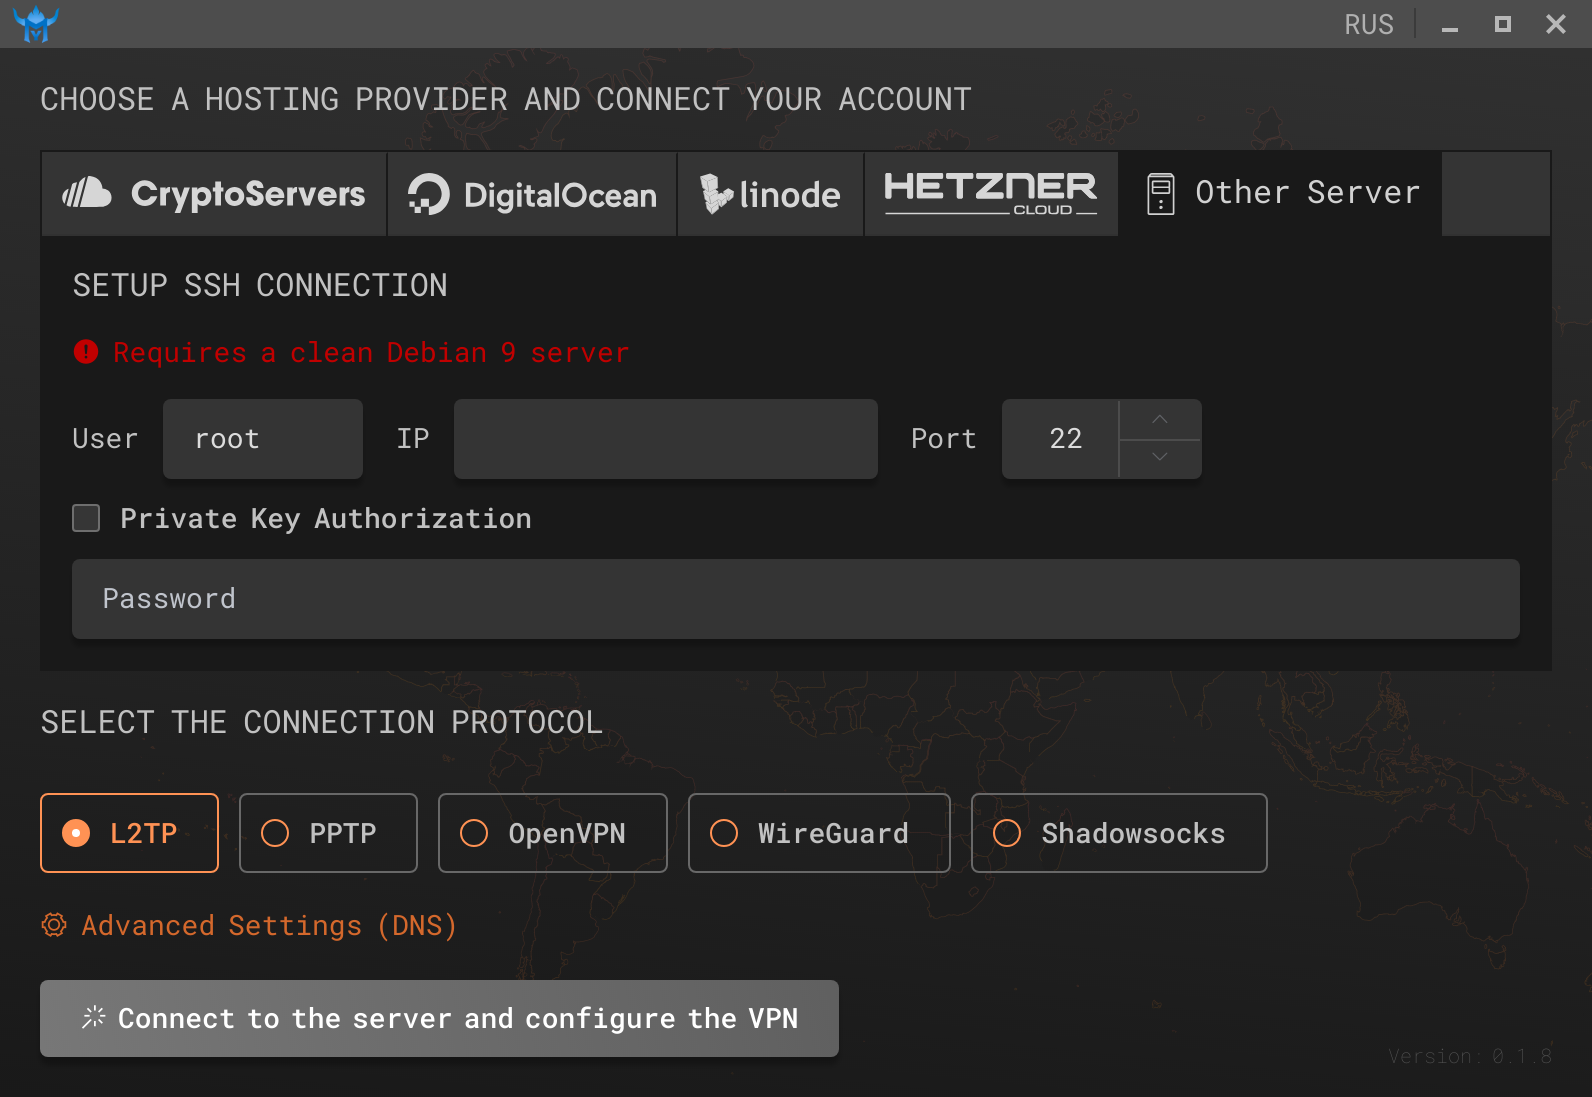
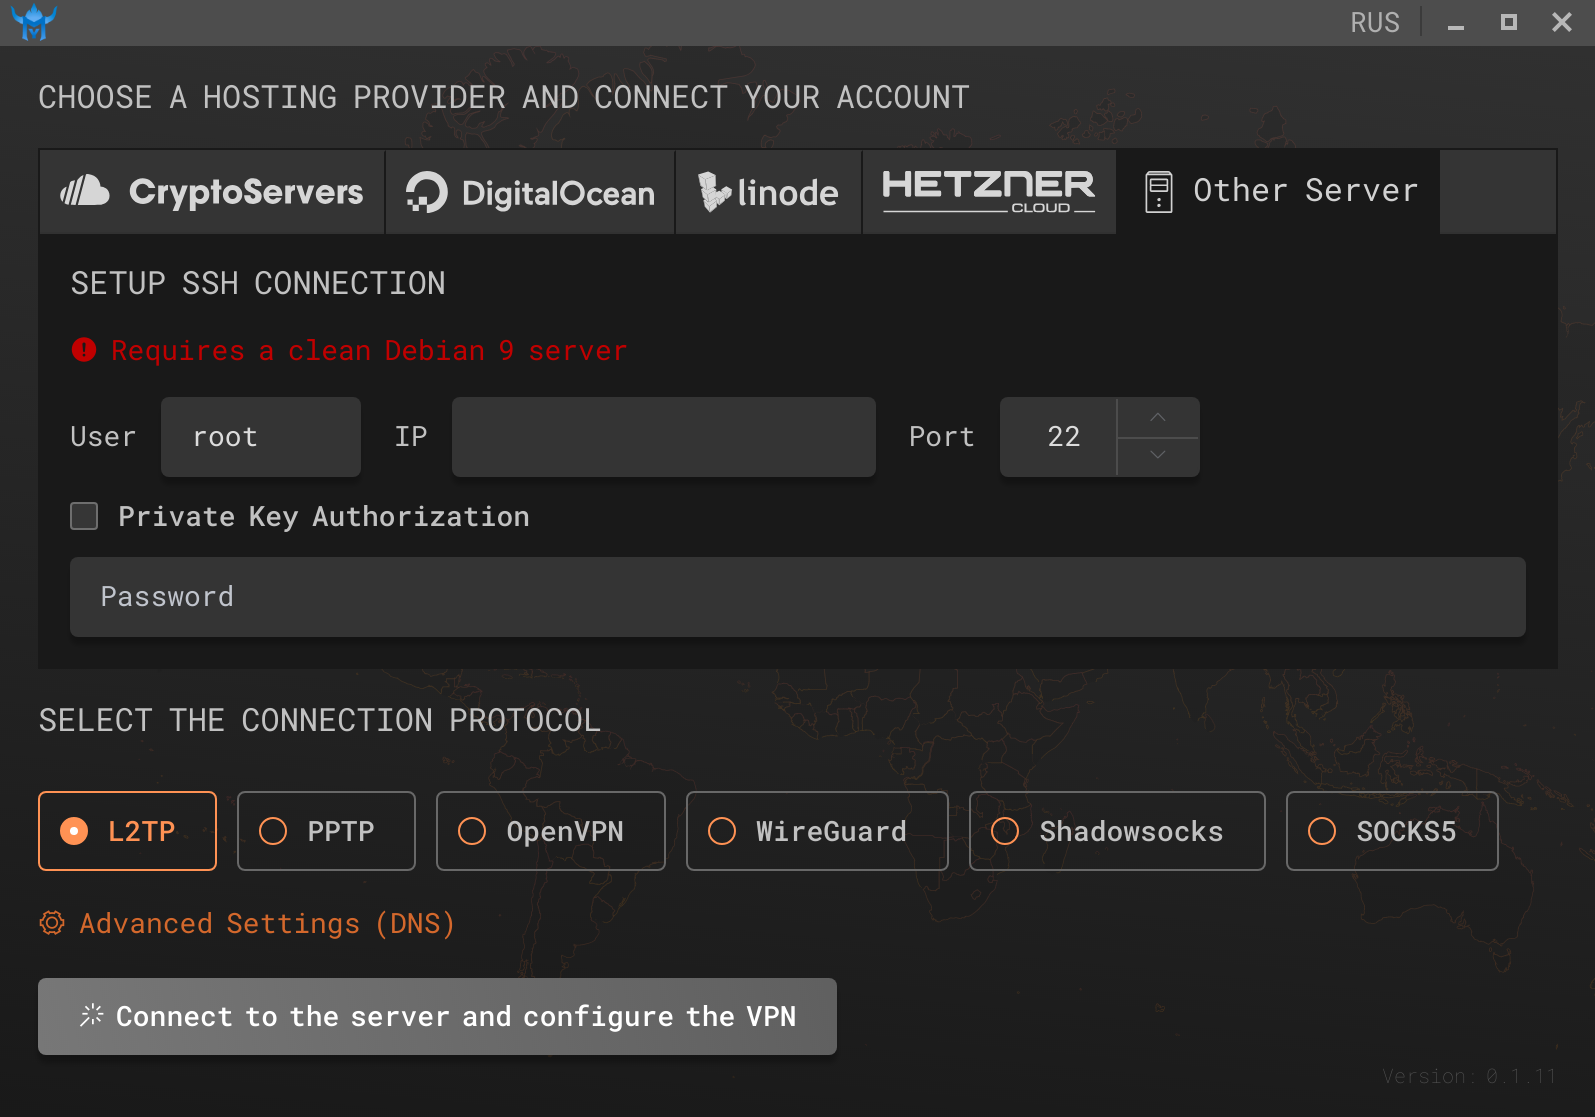
added socks5 type

diff --git a/src/renderer/components/StepAccess.vue b/src/renderer/components/StepAccess.vue
@@ -26,9 +26,9 @@
                         <h2>{{ $t('PSK key') }}</h2>
                         <h3><Copied :text="accountPskKey" /></h3>
                     </div>
-                    <div v-if="connectionType === 'pptp'">
+                    <div v-if="connectionType === 'l2tp'">
                         <h2>{{ $t('Type of connection') }}</h2>
-                        <h3>PPTP</h3>
+                        <h3>L2TP</h3>
 
                         <h2>{{ $t('IP address') }}</h2>
                         <h3><Copied :text="serverIp" /></h3>
@@ -38,7 +38,23 @@
 
                         <h2>{{ $t('Password') }}</h2>
                         <h3><Copied :text="accountPassword" /></h3>
-                        <u class="text-warning">{{ $t('Be sure to enable MPPE encryption') }}</u>
+                    </div>
+                    <div v-if="connectionType === 'socks5'">
+                        <h2>{{ $t('Type of connection') }}</h2>
+                        <h3>SOCKS5</h3>
+
+                        <h2>{{ $t('IP address') }}</h2>
+                        <h3><Copied :text="serverIp" /></h3>
+
+                        <h2>{{ $t('Login') }}</h2>
+                        <h3><Copied :text="accountUsername" /></h3>
+
+                        <h2>{{ $t('Password') }}</h2>
+                        <h3><Copied :text="accountPassword" /></h3>
+
+                        <h2>{{ $t('Port') }}</h2>
+                        <h3><Copied text="1080" /></h3>
+
                     </div>
                     <div v-if="connectionType === 'openvpn'">
                         <h2>{{ $t('Type of connection') }}</h2>

diff --git a/src/renderer/store/modules/type.js b/src/renderer/store/modules/type.js
@@ -3,12 +3,14 @@ const TYPE_L2TP='l2tp',
       TYPE_OPENVPN='openvpn',
       TYPE_WIREGUARD='wireguard',
       TYPE_SHADOWSOCKS='shadowsocks',
+      TYPE_SOCKS5='socks5',
       CODES = [
         {code: 1, type: TYPE_L2TP},
         {code: 2, type: TYPE_PPTP},
         {code: 3, type: TYPE_OPENVPN},
         {code: 4, type: TYPE_WIREGUARD},
         {code: 5, type: TYPE_SHADOWSOCKS},
+        {code: 6, type: TYPE_SOCKS5},
       ]
 
 const state = {
@@ -32,6 +34,10 @@ const state = {
     {
       key: TYPE_SHADOWSOCKS,
       title: 'Shadowsocks'
+    },
+    {
+      key: TYPE_SOCKS5,
+      title: 'SOCKS5'
     }
   ],
   selected: TYPE_L2TP
